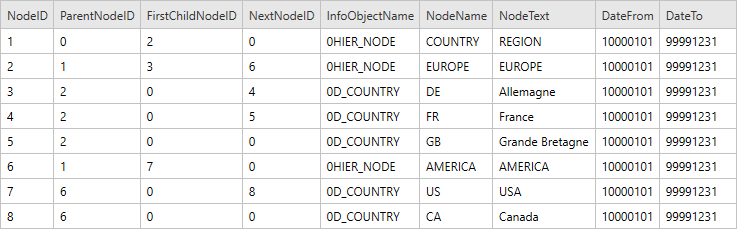
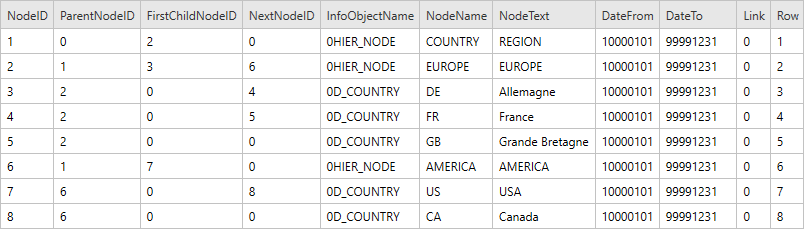
small changes

diff --git a/_includes/_content/en/bw-hierarchies/table-output.md b/_includes/_content/en/bw-hierarchies/table-output.md
@@ -1,6 +1,6 @@
 
 ### Hierarchy Structure in SAP
-The original Hierarchy PM_COUNTRY has the following format in SAP:<br>
+The example Hierarchy PM_COUNTRY has the following format in SAP:<br>
 ![Hierarchy-Table-SAP](/img/content/Hierarchy-Table-Output.png){:class="img-responsive"}
 
 ### Parent-Child Format
@@ -20,19 +20,27 @@ Name of InfoObject behind the corresponding node.
 - **NodeName:**
 The node’s (technical) name.
 - **NodeText:** 
-The description text of the node. This column is only created when the extraction setting **Fetch description texts** is active.<br>
+The description text of the node. This column is only created when the [extraction setting](./hierarchies-extraction-settings) **Fetch description texts** is active.
+- **Link:** 
+Indicator if the node is a link node or not.
+- **Row:**
+Number of the row in SAP.<br>
 ![Hierarchy-Table-Output](/img/content/Hierarchy-Table-Output-Result.png){:class="img-responsive"}
 
 ### Natural Format
 
 - **LevelN:**
-Technical name of the node of the nth level. If a level ... The level count starts with level 0. 
+Technical name of the node of the nth level. The number of levels is set in the [extraction setting](./hierarchies-extraction-settings) **Level Count**. The level count starts at level 0. 
 - **LevelTextN:**
-The description text of the nth level's node. This column is only created when the extraction setting **Description texts for levels** is active.
+The description text of the nth level's node. This column is only created when the [extraction setting](./hierarchies-extraction-settings) **Description texts for levels** is active.
 - **InfoObjectName:**
-Name of InfoObject behind the node of the highest available level.
+Name of InfoObject behind the node of the highest level.
 - **NodeName:**
-The node’s (technical) name.
+Technical name of the node of the highest level.
 - **NodeText:** 
-The description text of the current level's node. This column is only created when the extraction setting **Fetch description texts** is active.<br>
+The description text of the node of the highest level. This column is only created when the [extraction setting](./hierarchies-extraction-settings) **Fetch description texts** is active.
+- **Link:** 
+Indicator if the node is a link node or not.
+- **Row:**
+Number of the row in SAP.<br>
 ![Hierarchy-Table-Output](/img/content/Hierarchy-description-texts.png){:class="img-responsive"}

diff --git a/content/_en/xtract-for-alteryx/bwhierarchy/bwhier-define.md b/content/_en/xtract-for-alteryx/bwhierarchy/bwhier-define.md
@@ -17,29 +17,7 @@ The following section shows how to use the Xtract Hierarchy component.<br>
 1. Click **[Extraction Settings]** to define the output format of the Hierarchy, see [Extraction Settings](./bwhier-settings).
 2. Click **[Load live preview]** to display a live preview of the data without running an extraction.<br>
 ![Define-Data-Source-Hierarchy](/img/content/extractors.bwhier/Define-Data-Source-Hierarchy.png){:class="img-responsive"}
-3. Optional: The default value for **Date To** is 99991231. To change the value, ....
-
-#### Default Settings
-
-The default output of the Xtract Hierarchy component contains the following columns:
-- **NodeID:**
-Unique node key.
-- **ParentNodeID:**
-Key for parent node.
-- **FirstChildNodeID:**
-Key for first child node.
-- **NextNodeID:**
-Key for next node in the same hierarchical level.
-- **InfoObjectName:**
-Name of InfoObject behind the corresponding node.
-- **NodeName:**
-The node’s (technical) name.
-- **NodeText:** 
-The description text of the node. This column is only created when the extraction setting **Fetch description texts** is active.<br>
-
-The original Hierarchy PM_COUNTRY has the following format in SAP:<br>
-![Hierarchy-Table-SAP](/img/content/Hierarchy-Table-Output.png){:class="img-responsive"}
-
+3. Optional: The default value for **Date To** is 99991231. To change the value, use a [Parameter](../parameterizing).
 
 ****
 #### Related Links

diff --git a/_includes/_content/en/bw-hierarchies/hierarchies-extraction-settings.md b/_includes/_content/en/bw-hierarchies/hierarchies-extraction-settings.md
@@ -3,9 +3,9 @@ To access the extraction settings, click **[Extraction Settings]** in the main w
 
 ### Extraction Settings
 **Representation:** 
-- *ParentChild*: The hierarchy is represented in the SAP parent-child format, see [Table Output](./table-output). Example:<br>
+- *ParentChild*: The hierarchy is represented in the SAP parent-child format, see [Output Formats: Parent-Child](./table-output#parent-child-format). Example:<br>
 ![Hierarchies-Parent-Child](/img/content/Hierarchy-Table-Output-Result.png){:class="img-responsive"}
-- *Natural*: The SAP parent-child hierarchy is transformed into a regular hierarchy. Example:<br>
+- *Natural*: The SAP parent-child hierarchy is transformed into a regular hierarchy, see [Output Formats: Natural](./table-output#natural-format). Example:<br>
 ![Hierarchy-Parent-Child-Natural](/img/content/Hierarchy-Parent-Child-Natural.png){:class="img-responsive"}
 
 **Remove Leading Zeros:**<br>

diff --git a/content/_en/xtract-universal/bw-hierarchies/table-output.md b/content/_en/xtract-universal/bw-hierarchies/table-output.md
@@ -11,7 +11,5 @@ lang: en_GB
 old_url: /Xtract-Universal-EN/default.aspx?pageid=table-output
 ---
 
-{% include _content/en/bw-hierarchies/table-output.md %}
 
-The corresponding flat data output in a browser looks as follows:<br>
-![Hierarchy-Table-SAP](/img/content/Hierarchy-Table-Output-Browser.png){:class="img-responsive"}
+{% include _content/en/bw-hierarchies/table-output.md %}

diff --git a/content/_en/xtract-universal/bw-hierarchies/hierarchies-extraction-settings.md b/content/_en/xtract-universal/bw-hierarchies/hierarchies-extraction-settings.md
@@ -11,5 +11,4 @@ lang: en_GB
 old_url: /Xtract-Universal-EN/default.aspx?pageid=hierarchies-extraction-settings
 ---
 
-
 {% include _content/en/bw-hierarchies/hierarchies-extraction-settings.md %}
